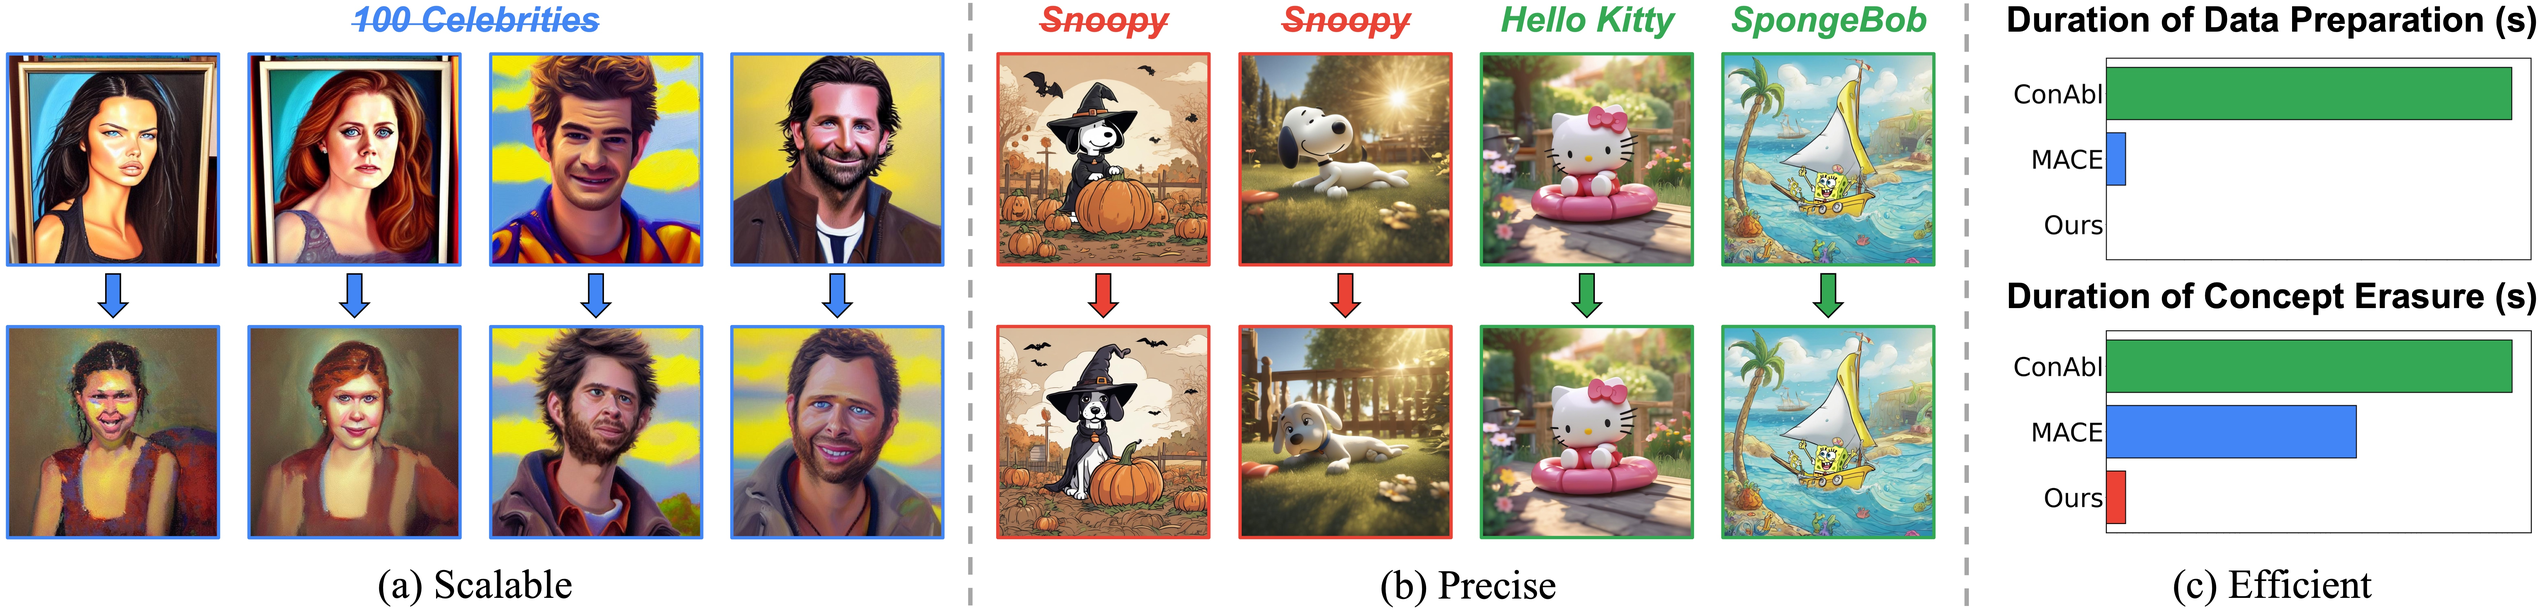
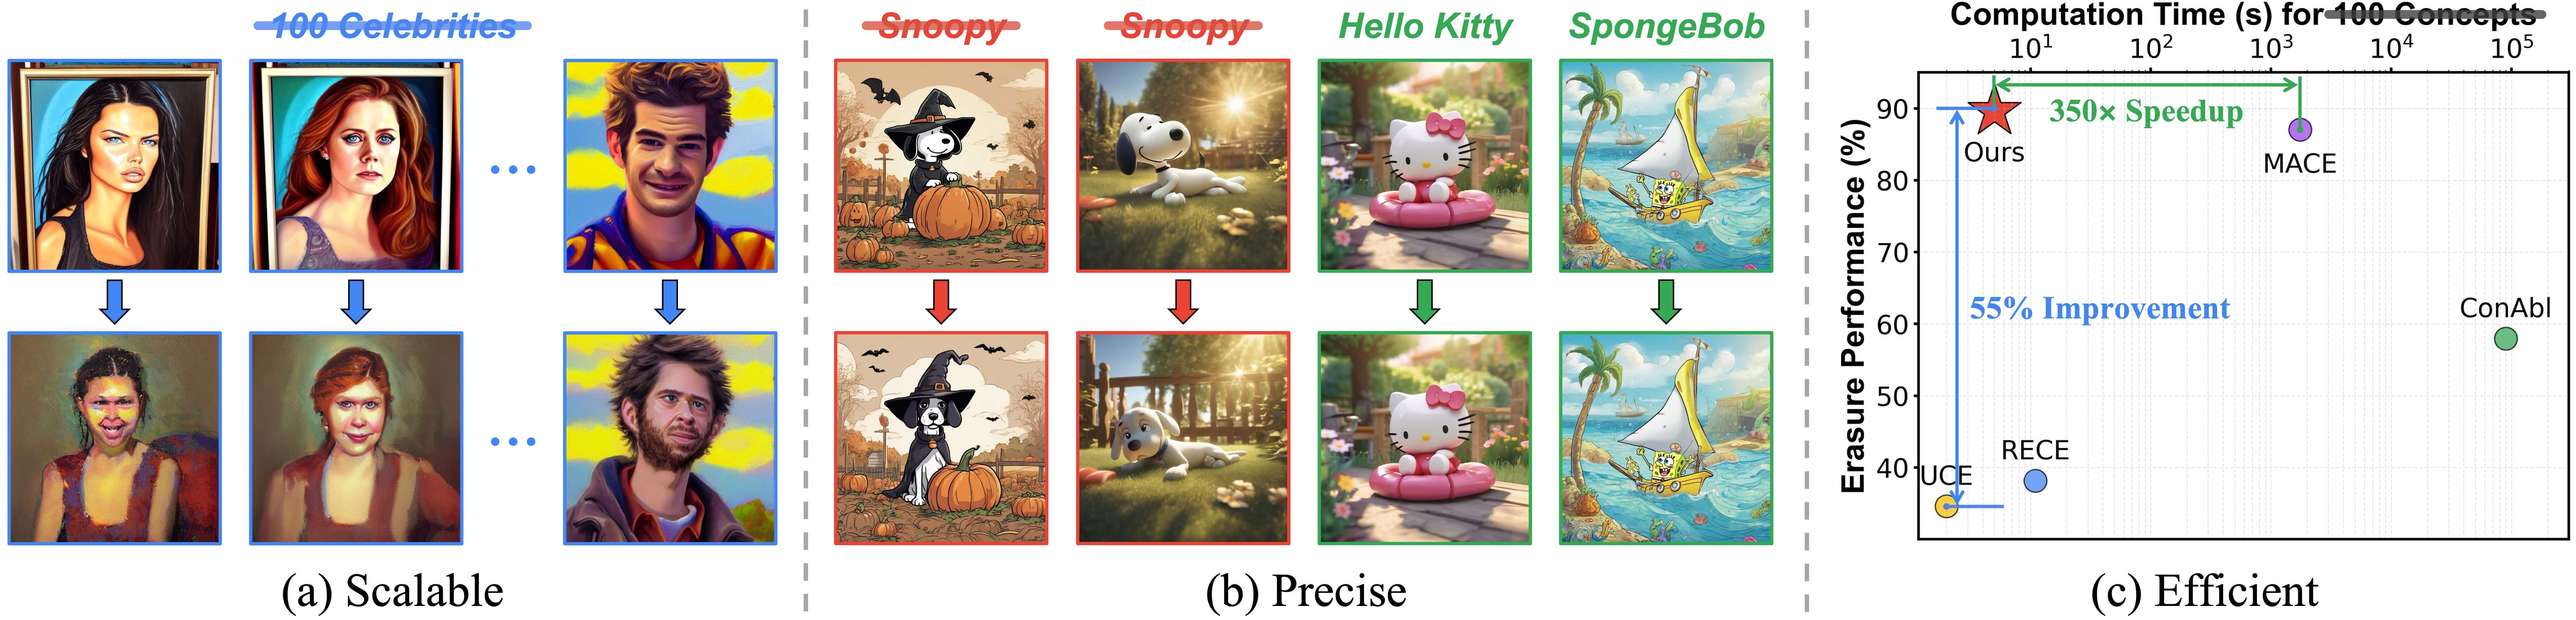
update

diff --git a/README.md b/README.md
@@ -5,6 +5,15 @@ This is the official Pytorch implementation of our paper:
 >
 > Ouxiang Li, Yuan Wang, Xinting Hu, Houcheng Jiang, Tao Liang, Yanbin Hao, Guojun Ma, Fuli Feng
 
+<p align="center">
+  <a href='https://arxiv.org/abs/2503.07392'>
+    <img src='https://img.shields.io/badge/Arxiv-2509.03516-A42C25?style=flat&logo=arXiv&logoColor=A42C25'>
+  </a>
+  <a href='https://huggingface.co/lioooox/SPEED'>
+    <img src='https://img.shields.io/badge/Hugging Face-ckpts-orange?style=flat&logo=HuggingFace&logoColor=orange'>
+  </a>
+</p>
+
 ![teaser](assets/teaser.JPEG)
 
 **Three characteristics of our proposed method, SPEED.**  **(a) Scalable:** SPEED seamlessly scales from single-concept to large-scale multi-concept erasure (e.g., 100 celebrities) without additional design.  **(b) Precise:** SPEED precisely removes the target concept (e.g., *Snoopy*) while preserving the semantic integrity for non-target concepts (e.g., *Hello Kitty* and *SpongeBob*).  **(c) Efficient:** SPEED can immediately erase 100 concepts within 5 seconds, achieving a ×350 speedup over the state-of-the-art (SOTA) method.
@@ -141,29 +150,18 @@ bash scripts/eval_nudity.sh
 
 We provide several edited models with SPEED on Stable Diffusion v1.4.
 
-| Concept Erasure Task | Edited Model | Hugging Face |
-|---|---|---|
-| Few-Concept Erasure | [Cloud Drive Link](https://rec.ustc.edu.cn/share/20312400-fe43-11ef-bbbc-4721580c9837) | <a href='https://huggingface.co/lioooox/SPEED/tree/main' style="margin: 0 2px; text-decoration: none;"><img src='https://img.shields.io/badge/Hugging Face-ckpts-orange?style=flat&logo=HuggingFace&logoColor=orange' alt='huggingface'></a> |
-| Multi-Concept Erasure | [Cloud Drive Link](https://rec.ustc.edu.cn/share/2e96f430-fe43-11ef-b572-97a879666bd2) | <a href='https://huggingface.co/lioooox/SPEED/tree/main' style="margin: 0 2px; text-decoration: none;"><img src='https://img.shields.io/badge/Hugging Face-ckpts-orange?style=flat&logo=HuggingFace&logoColor=orange' alt='huggingface'></a> |
-| Implicit Concept Erasure | [Cloud Drive Link](https://rec.ustc.edu.cn/share/36aa5250-fe43-11ef-968b-6123e5c640c6) | <a href='https://huggingface.co/lioooox/SPEED/tree/main' style="margin: 0 2px; text-decoration: none;"><img src='https://img.shields.io/badge/Hugging Face-ckpts-orange?style=flat&logo=HuggingFace&logoColor=orange' alt='huggingface'></a> |
+| Concept Erasure Task | Edited Model |
+|---|---|
+| Few-Concept Erasure | <a href='https://huggingface.co/lioooox/SPEED/tree/main/few-concept' style="margin: 0 2px; text-decoration: none;"><img src='https://img.shields.io/badge/Hugging Face-ckpts-orange?style=flat&logo=HuggingFace&logoColor=orange' alt='huggingface'></a> |
+| Multi-Concept Erasure | <a href='https://huggingface.co/lioooox/SPEED/tree/main/multi-concept' style="margin: 0 2px; text-decoration: none;"><img src='https://img.shields.io/badge/Hugging Face-ckpts-orange?style=flat&logo=HuggingFace&logoColor=orange' alt='huggingface'></a> |
+| Implicit Concept Erasure | <a href='https://huggingface.co/lioooox/SPEED/tree/main/nudity' style="margin: 0 2px; text-decoration: none;"><img src='https://img.shields.io/badge/Hugging Face-ckpts-orange?style=flat&logo=HuggingFace&logoColor=orange' alt='huggingface'></a> |
 
 
 ## More Applications
 
 Our method can adapt to other T2I models across versatile applications.
 
-- **Composite Concept Erasure on Community Versions**
-
-  ![app_community](assets/app_community.JPEG)
-
-- **Knowledge Editing on SDXL**
-
-  ![app_SDXL](assets/app_SDXL.JPEG)
-
-- **Instance Erasure and Prior Preservation on SDv3**
-
-  ![app_SD3](assets/app_SD3.JPEG)
-
+![application](assets/application.JPEG)
 
 ## Citation
 If you find the repo useful, please consider citing.
